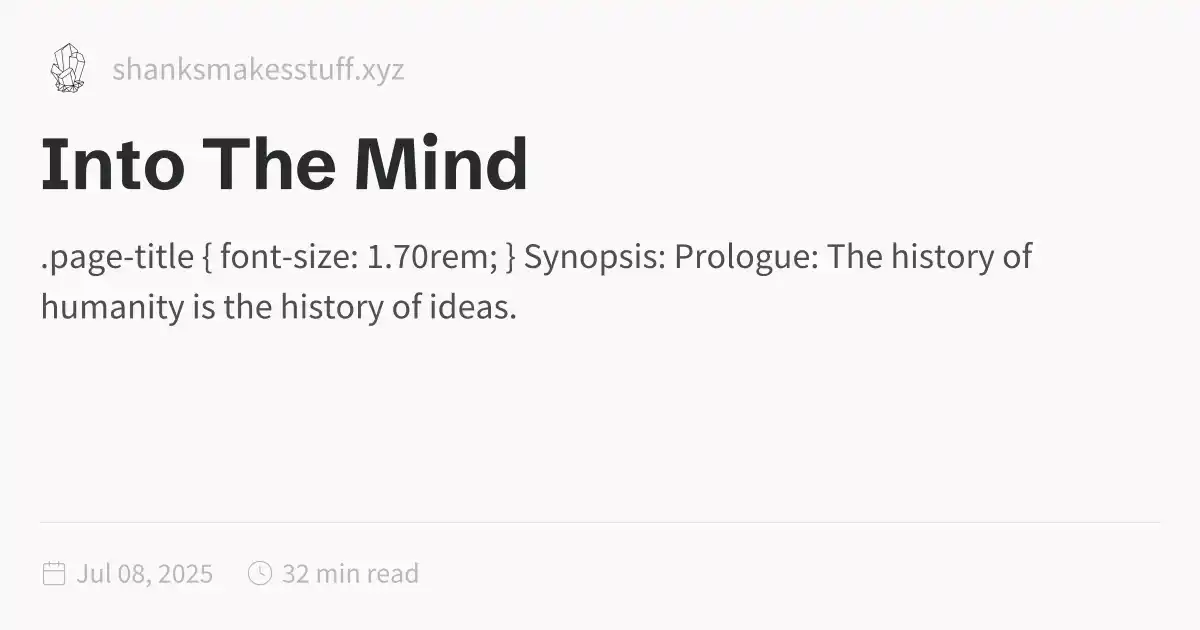
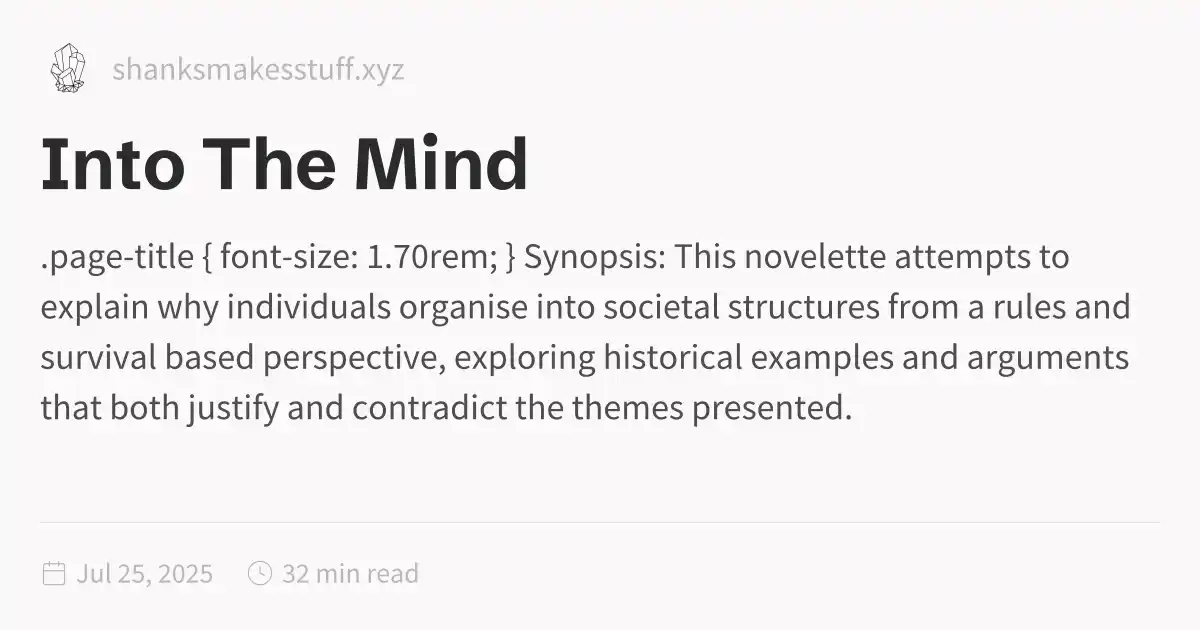
2025-07-25_1450

diff --git a/Into-The-Mind.html b/Into-The-Mind.html
@@ -1,5 +1,5 @@
 <!DOCTYPE html>
-<html lang="en"><head><title>Into The Mind</title><meta charset="utf-8"/><link rel="preconnect" href="https://fonts.googleapis.com"/><link rel="preconnect" href="https://fonts.gstatic.com"/><link rel="stylesheet" href="https://fonts.googleapis.com/css2?family=Schibsted Grotesk:wght@400;700&amp;family=Source Sans Pro:ital,wght@0,400;0,600;1,400;1,600&amp;family=IBM Plex Mono:wght@400;600&amp;display=swap"/><link rel="preconnect" href="https://cdnjs.cloudflare.com" crossorigin="anonymous"/><meta name="viewport" content="width=device-width, initial-scale=1.0"/><meta name="og:site_name" content="ShanksMakesStuff"/><meta property="og:title" content="Into The Mind"/><meta property="og:type" content="website"/><meta name="twitter:card" content="summary_large_image"/><meta name="twitter:title" content="Into The Mind"/><meta name="twitter:description" content=".page-title { font-size: 1.70rem; } Synopsis: Prologue: The history of humanity is the history of ideas."/><meta property="og:description" content=".page-title { font-size: 1.70rem; } Synopsis: Prologue: The history of humanity is the history of ideas."/><meta property="og:image:alt" content=".page-title { font-size: 1.70rem; } Synopsis: Prologue: The history of humanity is the history of ideas."/><meta property="twitter:domain" content="shanksmakesstuff.xyz"/><meta property="og:url" content="https://shanksmakesstuff.xyz/Into-The-Mind"/><meta property="twitter:url" content="https://shanksmakesstuff.xyz/Into-The-Mind"/><link rel="icon" href="./static/icon.png"/><meta name="description" content=".page-title { font-size: 1.70rem; } Synopsis: Prologue: The history of humanity is the history of ideas."/><meta name="generator" content="Quartz"/><link href="./index.css" rel="stylesheet" type="text/css" spa-preserve/><style>.expand-button {
+<html lang="en"><head><title>Into The Mind</title><meta charset="utf-8"/><link rel="preconnect" href="https://fonts.googleapis.com"/><link rel="preconnect" href="https://fonts.gstatic.com"/><link rel="stylesheet" href="https://fonts.googleapis.com/css2?family=Schibsted Grotesk:wght@400;700&amp;family=Source Sans Pro:ital,wght@0,400;0,600;1,400;1,600&amp;family=IBM Plex Mono:wght@400;600&amp;display=swap"/><link rel="preconnect" href="https://cdnjs.cloudflare.com" crossorigin="anonymous"/><meta name="viewport" content="width=device-width, initial-scale=1.0"/><meta name="og:site_name" content="ShanksMakesStuff"/><meta property="og:title" content="Into The Mind"/><meta property="og:type" content="website"/><meta name="twitter:card" content="summary_large_image"/><meta name="twitter:title" content="Into The Mind"/><meta name="twitter:description" content=".page-title { font-size: 1.70rem; } Synopsis: This novelette attempts to explain why individuals organise into societal structures from a rules and survival based perspective, exploring historical examples and arguments that both justify and contradict the themes presented."/><meta property="og:description" content=".page-title { font-size: 1.70rem; } Synopsis: This novelette attempts to explain why individuals organise into societal structures from a rules and survival based perspective, exploring historical examples and arguments that both justify and contradict the themes presented."/><meta property="og:image:alt" content=".page-title { font-size: 1.70rem; } Synopsis: This novelette attempts to explain why individuals organise into societal structures from a rules and survival based perspective, exploring historical examples and arguments that both justify and contradict the themes presented."/><meta property="twitter:domain" content="shanksmakesstuff.xyz"/><meta property="og:url" content="https://shanksmakesstuff.xyz/Into-The-Mind"/><meta property="twitter:url" content="https://shanksmakesstuff.xyz/Into-The-Mind"/><link rel="icon" href="./static/icon.png"/><meta name="description" content=".page-title { font-size: 1.70rem; } Synopsis: This novelette attempts to explain why individuals organise into societal structures from a rules and survival based perspective, exploring historical examples and arguments that both justify and contradict the themes presented."/><meta name="generator" content="Quartz"/><link href="./index.css" rel="stylesheet" type="text/css" spa-preserve/><style>.expand-button {
   position: absolute;
   display: flex;
   float: right;
@@ -116,7 +116,7 @@ pre:hover > .expand-button {
   padding: 0 12px;
   font-size: 14px;
 }
[2 lines of base64/hex data omitted]
 	<style> 
 		.page-title { 
 			font-size: 1.70rem; 
@@ -124,6 +124,7 @@ pre:hover > .expand-button {
 	</style> 
  
 <h2 id="synopsis">Synopsis:<a role="anchor" aria-hidden="true" tabindex="-1" data-no-popover="true" href="#synopsis" class="internal"><svg width="18" height="18" viewBox="0 0 24 24" fill="none" stroke="currentColor" stroke-width="2" stroke-linecap="round" stroke-linejoin="round"><path d="M10 13a5 5 0 0 0 7.54.54l3-3a5 5 0 0 0-7.07-7.07l-1.72 1.71"></path><path d="M14 11a5 5 0 0 0-7.54-.54l-3 3a5 5 0 0 0 7.07 7.07l1.71-1.71"></path></svg></a></h2>
+<p>This novelette attempts to explain why individuals organise into societal structures from a rules and survival based perspective, exploring historical examples and arguments that both justify and contradict the themes presented.</p>
 <h2 id="prologue">Prologue: <a role="anchor" aria-hidden="true" tabindex="-1" data-no-popover="true" href="#prologue" class="internal"><svg width="18" height="18" viewBox="0 0 24 24" fill="none" stroke="currentColor" stroke-width="2" stroke-linecap="round" stroke-linejoin="round"><path d="M10 13a5 5 0 0 0 7.54.54l3-3a5 5 0 0 0-7.07-7.07l-1.72 1.71"></path><path d="M14 11a5 5 0 0 0-7.54-.54l-3 3a5 5 0 0 0 7.07 7.07l1.71-1.71"></path></svg></a></h2>
 <p>The history of humanity is the history of ideas. To understand the evolution of human society, one is thus compelled to learn about the ideas of the different stages of human society, why some ideas became obsolete while others grew, and the what ‘ideas’ are in the first place. </p>
 <p>Before I begin this chapter, let me assert one fundamental truth: this book and its contents were written in hindsight. This is meant to be a descriptive macro-view of history, covering the most salient points I have picked from my own readings. As such, it is by no means unbiased - in fact it is highly prone to survivor biases and my own willingness to engage with certain ideas. This is not a book trying draw conclusions, but is simply my attempt at both description and rationalization. </p>
@@ -211,15 +212,15 @@ pre:hover > .expand-button {
 <p>I am sure to many readers the implications have already become obvious, most apparently so in the competition of conventional religions. </p>
 <p>History shows that long ago, human society based around religions had a far smaller scope. Pagan religions of the past focussed on crowning inanimate objects as sacred dwellings of or as gods/spirits. Shifting to more recent modern history, the questions religion answered centred around morality, and more abstract concepts. Religions that, essentially, did this better than others, lead to more stable societies due to greater predictability. Since these ideologies were in competition with each other, the fitter religion survived. This would the the religion more capable of answering its questions: what comes after life, for instance. </p>
 <p>But even if ideologies are in competition with each other that does not necessitate that societies are in competition with each other, too. The purpose of this entire train of thoughts, then, which was to attempt to answer the aspects of modern societies I mentioned in the ultimate section of chapter 4 (I would highly encourage you to reread the section to be reminded of the question asked) seems misdirected. That is because there is still another step we must take. </p>
-<p>To attribute the aforementioned complexities of society as a product of the evolution of ideologies through information selection, I am now tasked with demonstrating that societies are also in competition with each other, and are linked to their ideological pillars. This flies in the face of my earlier statements, comparing ideologies to clothes, going so far as to say that a society may cast off its ideology in favour of a more competent one. Or does it? </p>
-<p>To answer this, let us turn to the Roman Empire, and its many preceding forms. Initially started as a monarchy, Rome went through a series of transformations, into an oligarchy, into a democratically elected dictatorship, and then later once again to a monarchy as the empire grew and shrank. Through its lifespan, its chief ideologies changed drastically, and Roman ‘society’ changed from being a group of pagans to Christians later in history. However, throughout this rather tumultuous period survived another idea, one that remained in the background like the invisible puppet master of a show: the identity of being a Roman. </p>
+<p>To attribute the aforementioned complexities of society as a product of the evolution of ideologies through information selection, I am now tasked with demonstrating that societies are also in competition with each other, and are linked to their ideological pillars. This flies in the face of my earlier statements, comparing ideologies to clothes, going so far as to say that a society may cast off its ideology in favour of a more competent one. Or does it? To answer this, let us take the example of the Roman Empire, and its many preceding forms.</p>
+<p>Initially started as a monarchy, Rome went through a series of transformations, into an oligarchy, into a democratically elected dictatorship, and then later once again to a monarchy as the empire grew and shrank. Through its lifespan, its chief ideologies changed drastically, and Roman ‘society’ changed from being a group of pagans to Christians later in history. However, throughout this rather tumultuous period survived another idea, one that remained in the background like the invisible puppet master of a show: the identity of being a Roman. </p>
 <p>Indeed, nationalities and all other ideas of the nature that we called our identity, if they are shared ideas, are ideologies. While certain ideologies such as the conventionally religious ideas may have competed with each other, the Roman identity was competing with an entirely different rival of its own: the Gauls and the Etruscans, later the Greeks and the Phoenicians. </p>
-<p>Here, we return once more to more conventional selection, in the context of our understanding of information selection. Here, the information variants are the various cultures that form parts of each society. The resources they are limited by is the space, food, currency, and many more. They are all, also, generally in competition with each other. </p>
-<p>To summarise, I am trying to show that these societies, particularly the judiciary ones, are part of neither political nor conventionally religious ideologies. They form their own kind, a cultural society. </p>
-<p>This is not to say that there cannot be overlaps between these. Many religions demand certain laws, and some legislation may outlaw certain religious practices or groups, putting them into competition as seen with the crusades. However, bringing in the extra variables in such a context does not lead to the answer we were looking for at the ultimate section of chapter 4, so I shall continue using the Roman example and highlight the most salient of points that lead most directly to our answer. </p>
+<p>Here, we return once more to more conventional selection, in the context of our understanding of information selection. Here, the information variants are the various cultures that form parts of each society. The resources they are limited by is the space, food, currency, and many more. These are all, also, generally in competition with each other. </p>
+<p>To summarise, these societies, particularly the judiciary ones, are part of neither political nor conventionally religious ideologies. They form their own kind, a cultural society. </p>
+<p>This is not to say that there cannot be overlaps between these. Many religions demand certain laws, and some legislation may outlaw certain religious practices or groups, putting them into competition. Perhaps the most obvious historical example of these clashing were the crusades, though there is no dearth of examples elsewhere either. However, bringing in the extra variables in such a context does not lead to the answer we were looking for at the ultimate section of chapter 1.4, so I shall continue using the Roman example and highlight the most salient of points that lead most directly to our answer. </p>
 <p>To recap, the judiciary and laws are part of a cultural society. These compete with other comparable societies, mainly on the enforcement of laws. Thus, the resource being competed for, in another form of mental space, is enforcement. People who believe in laws and enforce them make the laws a force in the real world. Conversely, without anyone to enforce them, the law and its society would not exist. Thus, once again, adherents are a resource being competed for. A Greek would follow different laws to a Roman, perhaps worship different gods, and have different traditions. </p>
 <p>We are almost at our answer, but there is one more piece to the puzzle: what is the purpose of laws? </p>
-<p>While many would argue morality, fundamental logic or even sanctity, approaching this question in the context of the hitherto established pillars of society, I would argue that they answer the very second pillar: uncertainty. </p>
+<p>While many would argue morality, fundamental logic or even sanctity, approaching this question in the context of the hitherto established pillars of society, I would argue that they answer the second pillar: uncertainty. </p>
 <p>When we communicate with reality (recall, communication as a form of interaction with feedback), we trust our environment to act predictably - or in other words, that the deduced rules will not change over time. This implicit assumption has plagued all ideas of models from the first chapter. It is just that, an assumption. However, being the most fundamental assumption, and also the only assumption made thus far save for the dichotomy of reality and the non-real, I shall instead refer to it with the much more elegant word: ‘postulate’. </p>
 <p>Thus, I postulate, rather unsurprisingly, that rules endure regardless of situation. Anything that does not fit that criteria is not a rule. </p>
 <p>Going back to our communication with the environment, we trust it implicitly because it does fulfil our postulate’s criteria: the laws of physics do not change, as far as we can tell or need to tell in daily life, and so we believe it and form our models around it. But what about other humans? </p>
